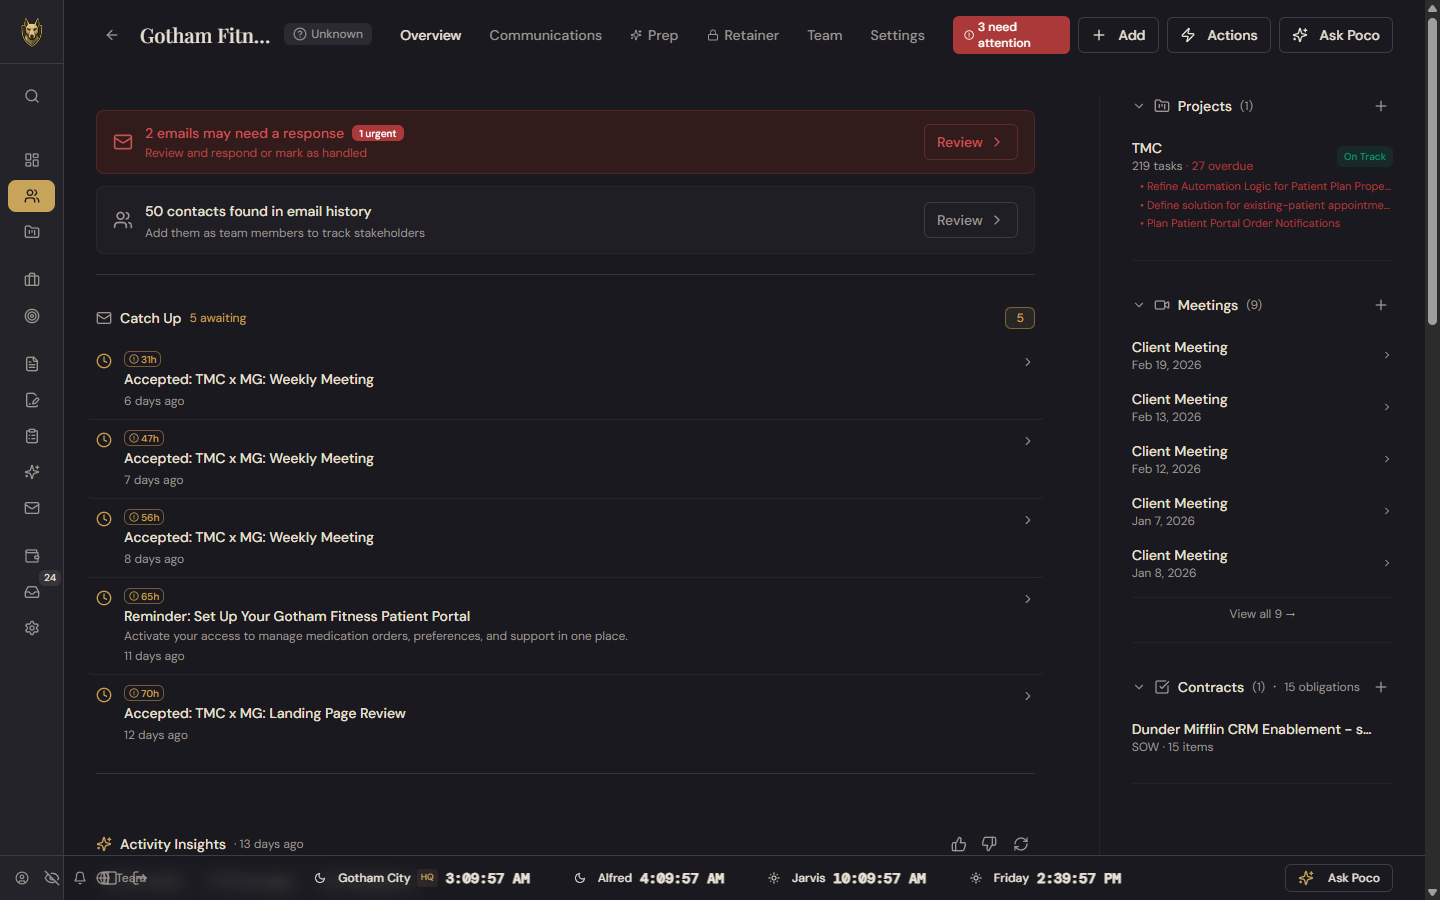
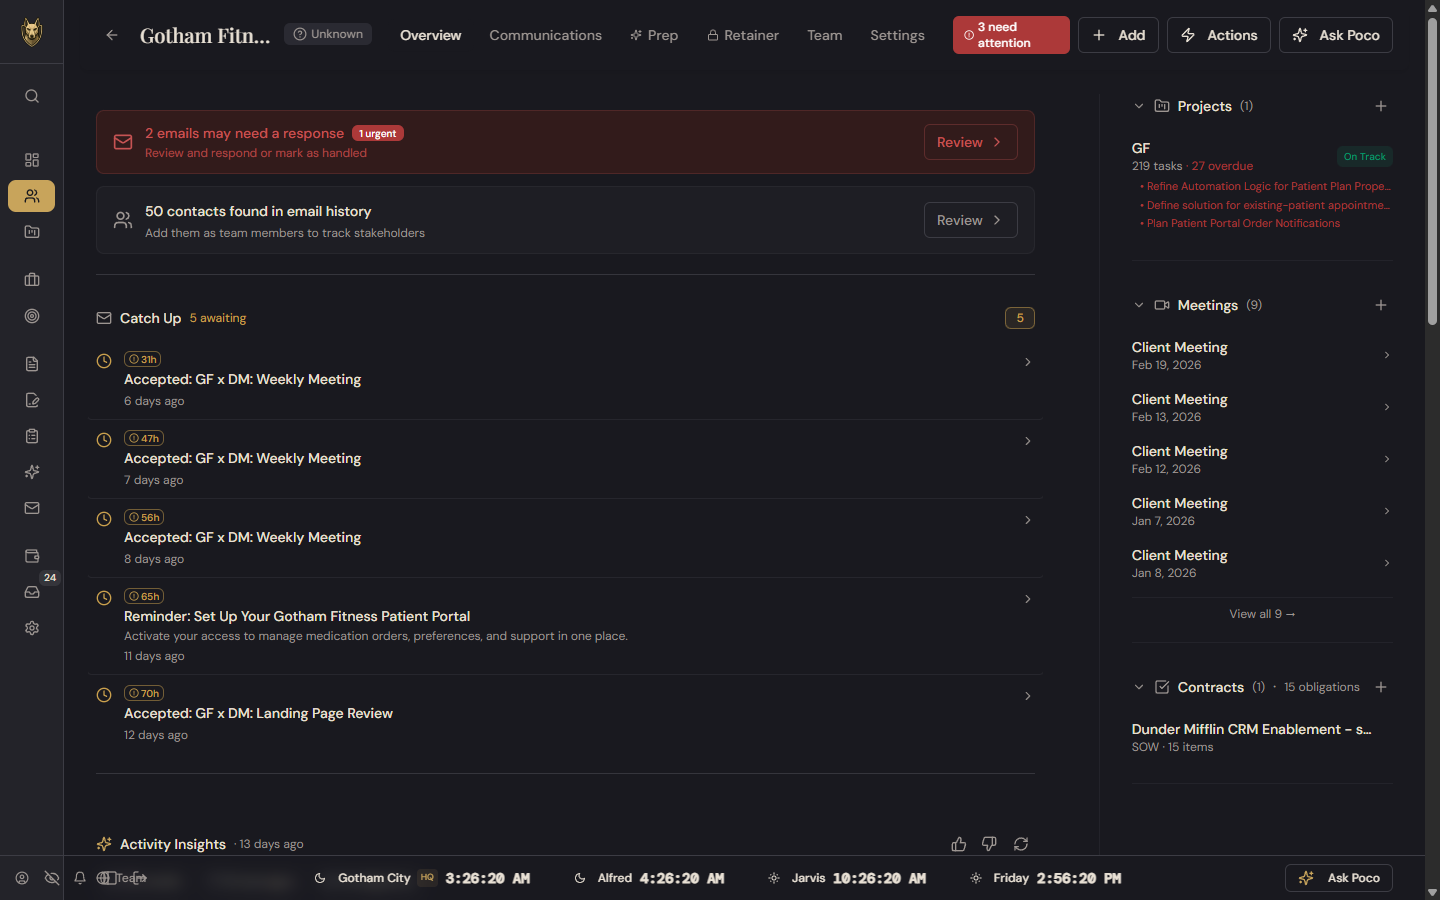
Fix Poco gallery: thorough obfuscation, fixed aspect ratio, click-to-fullscreen
- Retake all 5 screenshots with comprehensive obfuscation (every client name,
  project code, team member, and location replaced with funny fictional names)
- Fix image size shifting: use fixed 16:9 aspect ratio container with object-cover
- Add click-to-fullscreen lightbox with arrow key navigation, prev/next buttons,
  caption, and dot indicators
- Pause auto-rotation when lightbox is open
- "Click to expand" hint on gallery images

diff --git a/src/app/poco/PocoPageContent.tsx b/src/app/poco/PocoPageContent.tsx
@@ -1,10 +1,10 @@
 "use client";
 
-import { useState, useEffect } from "react";
+import { useState, useEffect, useCallback } from "react";
 import { motion, AnimatePresence } from "framer-motion";
 import Image from "next/image";
 import Link from "next/link";
-import { Bell } from "lucide-react";
+import { Bell, X } from "lucide-react";
 import { GradientOrb } from "@/components/ui/visuals";
 import { HubSpotForm } from "@/components/HubSpotForm";
 
@@ -67,13 +67,28 @@ const gallerySlides = [
 
 export function PocoPageContent() {
   const [currentSlide, setCurrentSlide] = useState(0);
+  const [lightboxOpen, setLightboxOpen] = useState(false);
 
   useEffect(() => {
+    if (lightboxOpen) return;
     const interval = setInterval(() => {
       setCurrentSlide((prev) => (prev + 1) % gallerySlides.length);
     }, 5000);
     return () => clearInterval(interval);
-  }, []);
+  }, [lightboxOpen]);
+
+  const closeLightbox = useCallback(() => setLightboxOpen(false), []);
+
+  useEffect(() => {
+    if (!lightboxOpen) return;
+    const handleKey = (e: KeyboardEvent) => {
+      if (e.key === "Escape") closeLightbox();
+      if (e.key === "ArrowRight") setCurrentSlide((prev) => (prev + 1) % gallerySlides.length);
+      if (e.key === "ArrowLeft") setCurrentSlide((prev) => (prev - 1 + gallerySlides.length) % gallerySlides.length);
+    };
+    window.addEventListener("keydown", handleKey);
+    return () => window.removeEventListener("keydown", handleKey);
+  }, [lightboxOpen, closeLightbox]);
 
   return (
     <>
@@ -193,7 +208,11 @@ export function PocoPageContent() {
                       </div>
                     </div>
                   </div>
-                  <div className="bg-[#1a1a2e] relative min-h-[200px]">
+                  <div
+                    className="bg-[#1a1a2e] relative cursor-pointer"
+                    style={{ aspectRatio: "16 / 9" }}
+                    onClick={() => setLightboxOpen(true)}
+                  >
                     <AnimatePresence mode="wait">
                       <motion.div
                         key={currentSlide}
@@ -201,17 +220,20 @@ export function PocoPageContent() {
                         animate={{ opacity: 1 }}
                         exit={{ opacity: 0 }}
                         transition={{ duration: 0.4 }}
+                        className="absolute inset-0"
                       >
                         <Image
                           src={gallerySlides[currentSlide].src}
                           alt={gallerySlides[currentSlide].alt}
-                          width={gallerySlides[currentSlide].width}
-                          height={gallerySlides[currentSlide].height}
+                          fill
                           sizes="(max-width: 1024px) 100vw, 50vw"
-                          className="w-full h-auto"
+                          className="object-cover"
                         />
                       </motion.div>
                     </AnimatePresence>
+                    <div className="absolute bottom-3 right-3 bg-black/50 text-white/80 text-xs px-2 py-1 rounded-md pointer-events-none">
+                      Click to expand
+                    </div>
                   </div>
                 </div>
 
@@ -315,6 +337,93 @@ export function PocoPageContent() {
           </motion.div>
         </div>
       </section>
+
+      {/* Lightbox */}
+      <AnimatePresence>
+        {lightboxOpen && (
+          <motion.div
+            initial={{ opacity: 0 }}
+            animate={{ opacity: 1 }}
+            exit={{ opacity: 0 }}
+            className="fixed inset-0 z-50 bg-black/90 flex items-center justify-center p-4 lg:p-8"
+            onClick={closeLightbox}
+          >
+            <button
+              onClick={closeLightbox}
+              className="absolute top-4 right-4 lg:top-6 lg:right-6 text-white/70 hover:text-white transition-colors z-10"
+              aria-label="Close fullscreen view"
+            >
+              <X className="w-8 h-8" />
+            </button>
+
+            <div
+              className="relative w-full max-w-6xl"
+              onClick={(e) => e.stopPropagation()}
+            >
+              <AnimatePresence mode="wait">
+                <motion.div
+                  key={currentSlide}
+                  initial={{ opacity: 0, scale: 0.95 }}
+                  animate={{ opacity: 1, scale: 1 }}
+                  exit={{ opacity: 0, scale: 0.95 }}
+                  transition={{ duration: 0.3 }}
+                >
+                  <Image
+                    src={gallerySlides[currentSlide].src}
+                    alt={gallerySlides[currentSlide].alt}
+                    width={1366}
+                    height={768}
+                    sizes="100vw"
+                    className="w-full h-auto rounded-lg"
+                    priority
+                  />
+                </motion.div>
+              </AnimatePresence>
+
+              {/* Lightbox caption + dots */}
+              <div className="flex items-center justify-between mt-4">
+                <p className="text-sm text-white/60 font-medium">
+                  {gallerySlides[currentSlide].caption}
+                </p>
+                <div className="flex gap-2">
+                  {gallerySlides.map((_, index) => (
+                    <button
+                      key={index}
+                      onClick={() => setCurrentSlide(index)}
+                      className={`w-2 h-2 rounded-full transition-all duration-300 ${
+                        index === currentSlide
+                          ? "bg-amber-500 w-5"
+                          : "bg-white/30 hover:bg-white/50"
+                      }`}
+                      aria-label={`View screenshot ${index + 1}`}
+                    />
+                  ))}
+                </div>
+              </div>
+
+              {/* Prev/Next arrows */}
+              <button
+                onClick={() => setCurrentSlide((prev) => (prev - 1 + gallerySlides.length) % gallerySlides.length)}
+                className="absolute left-0 top-1/2 -translate-y-1/2 -translate-x-12 lg:-translate-x-16 text-white/50 hover:text-white transition-colors"
+                aria-label="Previous screenshot"
+              >
+                <svg className="w-10 h-10" fill="none" stroke="currentColor" viewBox="0 0 24 24">
+                  <path strokeLinecap="round" strokeLinejoin="round" strokeWidth={2} d="M15 19l-7-7 7-7" />
+                </svg>
+              </button>
+              <button
+                onClick={() => setCurrentSlide((prev) => (prev + 1) % gallerySlides.length)}
+                className="absolute right-0 top-1/2 -translate-y-1/2 translate-x-12 lg:translate-x-16 text-white/50 hover:text-white transition-colors"
+                aria-label="Next screenshot"
+              >
+                <svg className="w-10 h-10" fill="none" stroke="currentColor" viewBox="0 0 24 24">
+                  <path strokeLinecap="round" strokeLinejoin="round" strokeWidth={2} d="M9 5l7 7-7 7" />
+                </svg>
+              </button>
+            </div>
+          </motion.div>
+        )}
+      </AnimatePresence>
     </>
   );
 }
